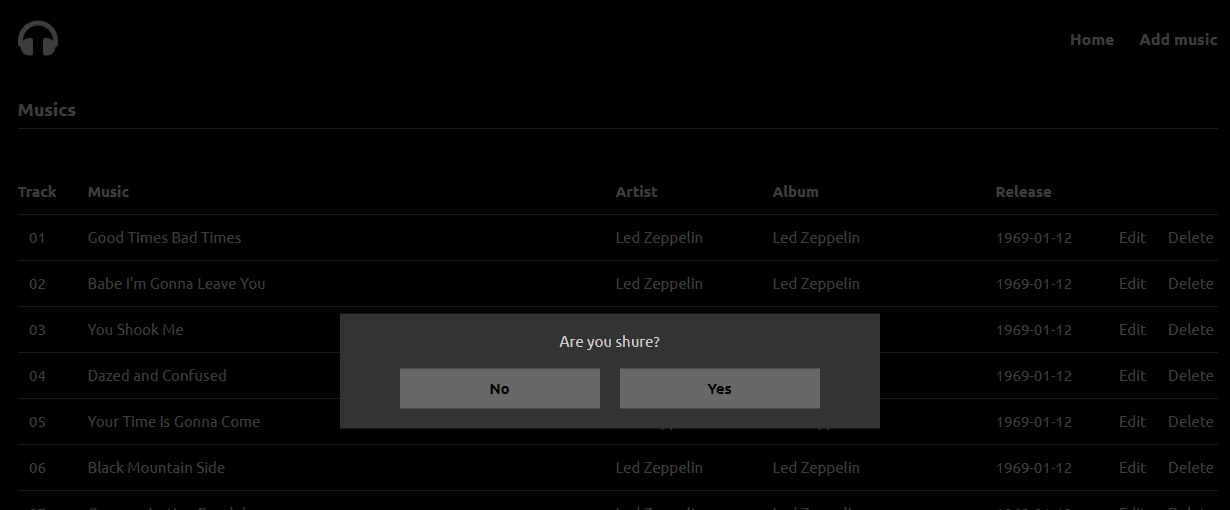
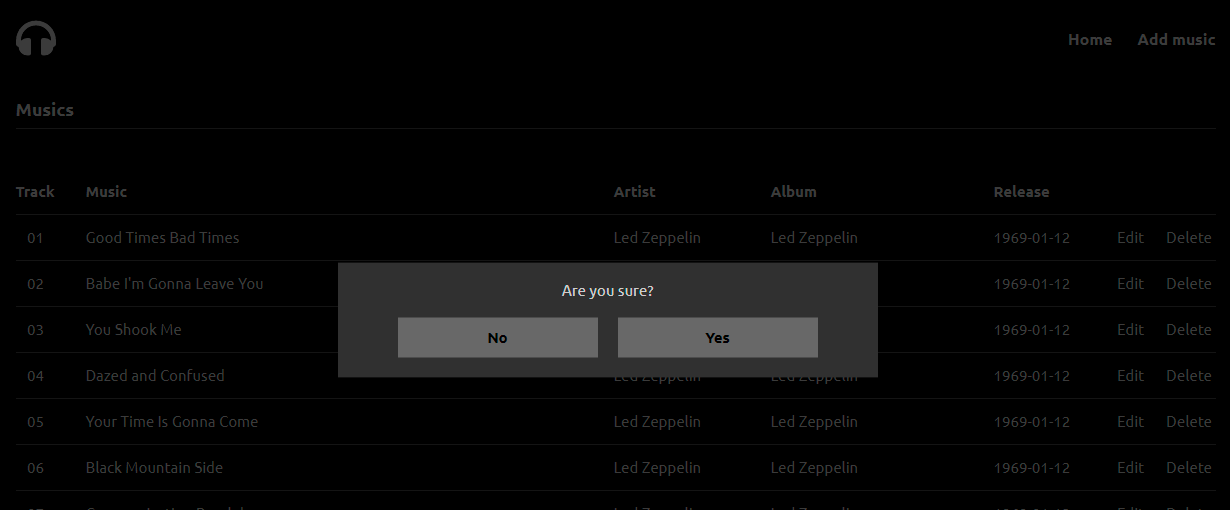
Correção da mensagem de confirmação ao deletar música

diff --git a/html/index.html b/html/index.html
@@ -29,7 +29,7 @@
     <?php foreach ($musics->table as $row): ?>
         <input class="table__delete-input" id="<?= $row['number'] ?>" type="checkbox" hidden>
         <section class="table__delete-modal">
-            <p class="table__delete-warning">Are you shure?</p>
+            <p class="table__delete-warning">Are you sure?</p>
             <label class="table__delete-no" for="<?= $row['number'] ?>">No</label>
             <a class="table__delete-yes" href="delete-music.php?number=<?= $row['number'] ?>">Yes</a>
         </section>
